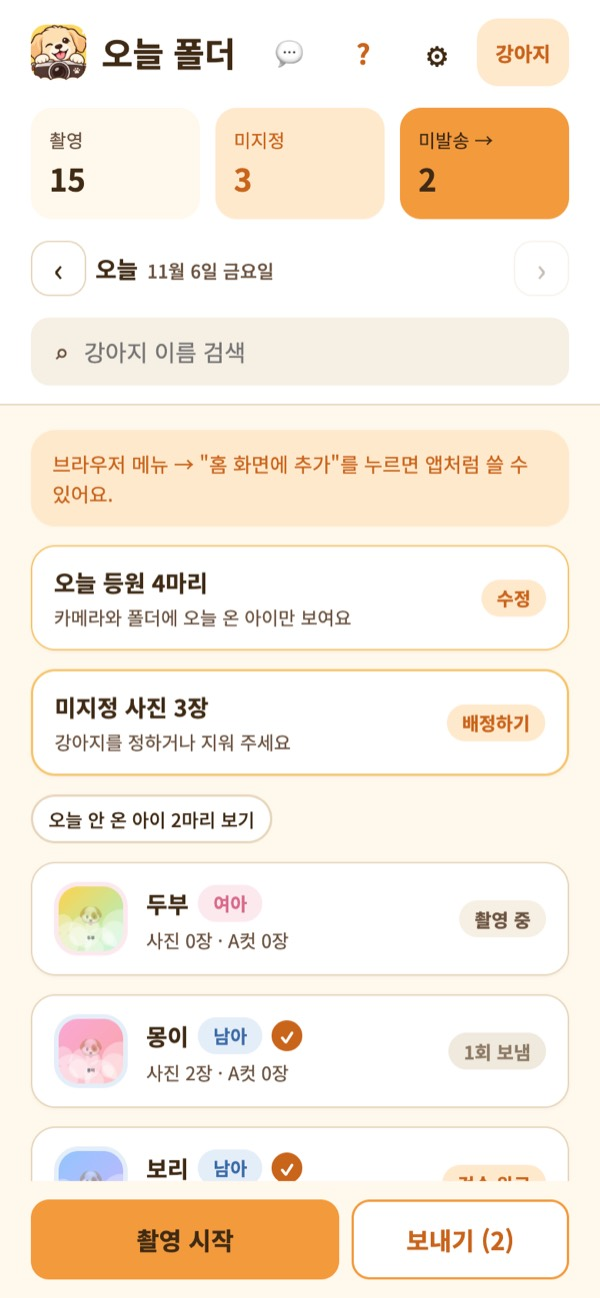
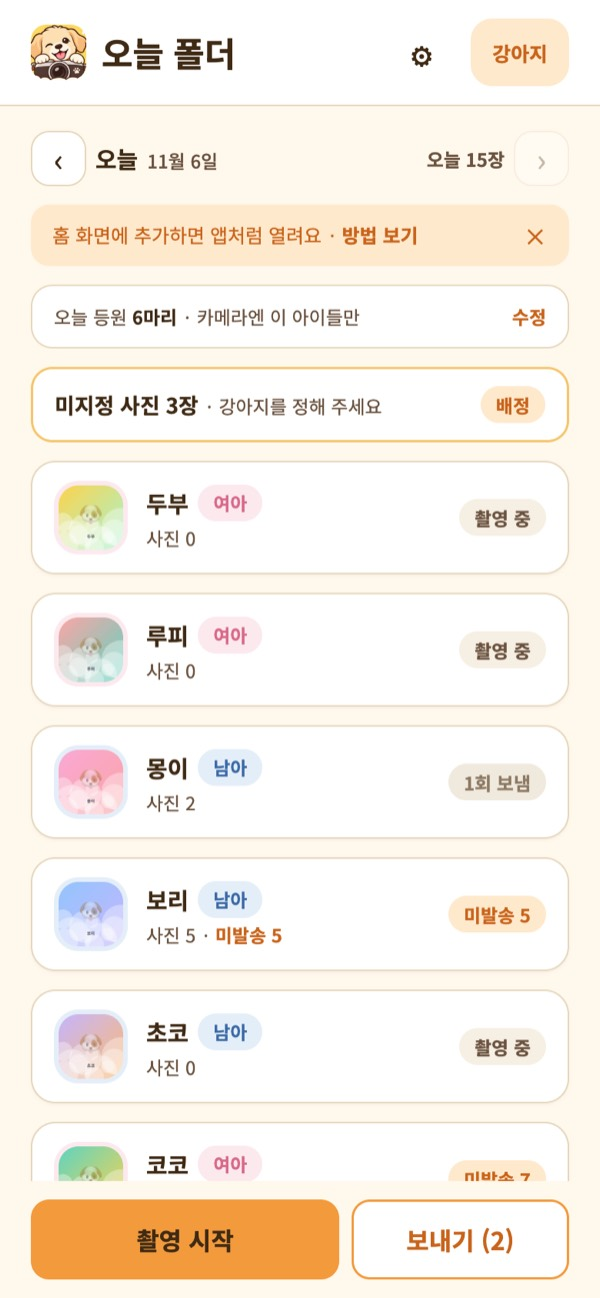
오늘 폴더 개편: 통계 카드·상단 버튼 2개·A컷 제거, 숫자는 제자리로(오늘 N장·미발송), 등원은 체크 전 크게/후 한 줄, 미지정 한 줄, 검색은 9마리부터, 설치 안내 한 줄+닫기, 첫 실행 전용 화면. 사용 안내 문구·그림 갱신

Changed region(s): [[0.03, 0.0, 0.96, 0.9245], [0.75, 0.8937, 0.9, 0.9245], [0.03, 0.5239, 0.06, 0.5855]]

diff --git a/web/src/screens/Folders.tsx b/web/src/screens/Folders.tsx
@@ -11,6 +11,13 @@ import { listAttendedDogIds, listFolders } from '../db/repo';
 import { getPartner, track } from '../lib/analytics';
 import { localDate, relativeLabel } from '../lib/dates';
 
+/** 검색창은 이 마릿수부터. 그 아래선 목록이 한 화면에 들어온다. */
+const SEARCH_FROM = 9;
+
+/**
+ * 오늘 폴더. 이 화면의 일은 "촬영 시작"과 "보내기" 둘뿐이고, 나머지는 그 둘을 돕는 정보다.
+ * 숫자는 제자리에(오늘 N장은 날짜 줄, 미발송은 보내기 버튼과 각 행), 카드는 상황이 있을 때만.
+ */
 export function FoldersScreen() {
   const navigate = useNavigate();
   const [query, setQuery] = useState('');
@@ -22,7 +29,7 @@ export function FoldersScreen() {
     track('date_changed', { screen: 'folders', offset_days: off });
     setDateRaw(d);
   };
-  const { data } = useQuery({ queryKey: ['folders', date], queryFn: () => listFolders(date) });
+  const { data, isLoading } = useQuery({ queryKey: ['folders', date], queryFn: () => listFolders(date) });
   const { data: attended = [] } = useQuery({ queryKey: ['attendance', date], queryFn: () => listAttendedDogIds(date) });
   const attendedSet = useMemo(() => new Set(attended), [attended]);
   const [showAbsent, setShowAbsent] = useState(false);
@@ -35,66 +42,81 @@ export function FoldersScreen() {
   const present = hasAttendance ? filtered.filter((f) => attendedSet.has(f.dog.id) || f.count > 0) : filtered;
   const absent = hasAttendance ? filtered.filter((f) => !attendedSet.has(f.dog.id) && f.count === 0) : [];
   const pickedCount = picked ? perDog.find((f) => f.dog.id === picked.id)?.count : undefined;
+  const unsentDogs = perDog.filter((f) => f.unsent > 0).length;
+
+  const header = (
+    <header className="topbar" style={{ padding: 'calc(var(--safe-top) + 12px) 20px 12px', gap: 10 }}>
+      <img src={`${import.meta.env.BASE_URL}logo-face-128.png`} alt="" width={36} height={36} style={{ borderRadius: 10 }} />
+      <h1 style={{ fontSize: 22 }}>{relativeLabel(date) ?? '지난'} 폴더</h1>
+      <Link to="/settings" className="icon-btn" aria-label="설정" style={{ fontSize: 22 }}>⚙</Link>
+      {perDog.length > 0 ? (
+        <Link to="/dogs" className="icon-btn icon-btn--mint" aria-label="강아지 관리" style={{ fontSize: 13, width: 'auto', padding: '0 14px' }}>강아지</Link>
+      ) : null}
+    </header>
+  );
+
+  // 첫 실행: 강아지가 없으면 할 일 하나만 보여준다.
+  if (!isLoading && perDog.length === 0) {
+    return (
+      <div className="screen screen--surface">
+        {header}
+        <main className="body" style={{ alignItems: 'center', justifyContent: 'center', textAlign: 'center', gap: 18, paddingBottom: 80 }}>
+          <img src={`${import.meta.env.BASE_URL}icon-192.png`} alt="하루멍" width={132} height={132} />
+          <div style={{ display: 'flex', flexDirection: 'column', gap: 8 }}>
+            <b style={{ fontSize: 20 }}>첫 강아지를 등록해 볼까요?</b>
+            <span className="sub" style={{ fontSize: 14, lineHeight: 1.6 }}>이름과 정면 사진만 있으면 돼요.<br />등록한 아이는 촬영할 때 바로 고를 수 있어요.</span>
+          </div>
+          <Link to="/dogs/new" className="btn" style={{ width: 'auto', padding: '0 32px' }}>강아지 등록</Link>
+          <Link to="/guide" className="sub" style={{ fontWeight: 700, color: 'var(--mint)' }} onClick={() => track('guide_opened', { from: 'empty' })}>사용 안내 먼저 보기</Link>
+        </main>
+      </div>
+    );
+  }
 
   return (
     <div className="screen screen--surface">
-      <header className="topbar" style={{ flexDirection: 'column', alignItems: 'stretch', gap: 14, padding: 'calc(var(--safe-top) + 12px) 20px 12px' }}>
-        <div style={{ display: 'flex', alignItems: 'center', justifyContent: 'space-between' }}>
-          <div style={{ display: 'flex', alignItems: 'center', gap: 10 }}>
-            <img src={`${import.meta.env.BASE_URL}logo-face-128.png`} alt="" width={36} height={36} style={{ borderRadius: 10 }} />
-            <h1 style={{ fontSize: 22 }}>{relativeLabel(date) ?? '지난'} 폴더</h1>
-          </div>
-          <div style={{ display: 'flex', gap: 4 }}>
-            <Link to="/feedback?from=folders" className="icon-btn" aria-label="피드백 보내기" style={{ fontSize: 18 }} onClick={() => track('feedback_opened', { from: 'folders' })}>💬</Link>
-            <Link to="/guide" className="icon-btn" aria-label="사용 안내" style={{ fontSize: 18, fontWeight: 700, color: 'var(--mint)' }} onClick={() => track('guide_opened', { from: 'folders' })}>?</Link>
-            <Link to="/settings" className="icon-btn" aria-label="설정" style={{ fontSize: 22 }}>⚙</Link>
-            <Link to="/dogs" className="icon-btn icon-btn--mint" aria-label="강아지 관리" style={{ fontSize: 13, width: 'auto', padding: '0 12px' }}>강아지</Link>
-          </div>
-        </div>
-        <div className="stats">
-          <div className="stat" style={{ background: 'var(--surface)' }}><span className="sub">촬영</span><b>{total}</b></div>
-          <div className="stat" style={{ background: 'var(--mint-light)', color: 'var(--mint)' }}><span style={{ fontSize: 12 }}>미지정</span><b>{unassigned}</b></div>
-          <Link to={`/send?d=${date}`} className="stat" style={{ background: 'var(--brand)', color: 'var(--text)' }}><span style={{ fontSize: 12 }}>미발송 →</span><b>{perDog.filter((f) => f.unsent > 0).length}</b></Link>
-        </div>
-        <DateNav date={date} onChange={setDate} />
-        <SearchBox value={query} onChange={(q) => { if (q.trim().length === 1 && !query.trim()) track('search_used', { screen: 'folders' }); setQuery(q); }} />
-      </header>
+      {header}
 
       <main className="body" style={{ paddingBottom: 100 }}>
-        <InstallHint />
+        {/* 날짜 + 오늘 N장 */}
+        <DateNav date={date} onChange={setDate} compact right={<span className="sub" style={{ fontWeight: 700 }}>{relativeLabel(date) ?? '그날'} {total}장</span>} />
+
+        <InstallHint compact />
+
         {!getPartner() ? (
-          <Link to="/settings#partner" className="card card--row" style={{ color: 'inherit', borderStyle: 'dashed' }}>
-            <span style={{ flex: 1, display: 'flex', flexDirection: 'column', gap: 3 }}>
-              <span className="title">유치원 코드가 없어요</span>
-              <span className="sub">받은 링크로 다시 열거나, 설정에서 코드를 넣어 주세요</span>
-            </span>
-            <Chip label="설정" tone="gray" />
+          <Link to="/settings#partner" className="row-card" style={{ borderStyle: 'dashed' }}>
+            <span style={{ flex: 1 }}><b>유치원 코드가 없어요</b> <span className="sub">· 받은 링크로 열거나 설정에서 입력</span></span>
+            <span className="sub" style={{ fontWeight: 700, color: 'var(--mint)' }}>설정</span>
           </Link>
         ) : null}
-        <Link to={`/attendance?d=${date}`} className="card card--row" style={{ borderColor: 'var(--mint-mid)', color: 'inherit' }}>
-          <span style={{ flex: 1, display: 'flex', flexDirection: 'column', gap: 3 }}>
-            <span className="title">오늘 등원 {hasAttendance ? `${attended.length}마리` : '체크'}</span>
-            <span className="sub">{hasAttendance ? '카메라와 폴더에 오늘 온 아이만 보여요' : '체크하면 카메라에 오늘 온 아이만 떠요'}</span>
-          </span>
-          <Chip label={hasAttendance ? '수정' : '체크하기'} tone="mint" />
-        </Link>
+
+        {/* 등원: 체크 전엔 이 화면의 첫 번째 할 일이라 크게, 체크 뒤엔 한 줄 */}
+        {isToday && !hasAttendance ? (
+          <Link to={`/attendance?d=${date}`} className="card card--row" style={{ borderColor: 'var(--mint-mid)', borderWidth: 1.5, color: 'inherit', padding: '16px' }}>
+            <span style={{ width: 40, height: 40, borderRadius: 12, background: 'var(--mint-light)', color: 'var(--mint)', display: 'flex', alignItems: 'center', justifyContent: 'center', fontWeight: 700, fontSize: 18, flex: '0 0 auto' }}>✓</span>
+            <span style={{ flex: 1, display: 'flex', flexDirection: 'column', gap: 2 }}>
+              <b style={{ fontSize: 16 }}>오늘 등원 체크하기</b>
+              <span className="sub">온 아이만 고르면 카메라가 가벼워져요</span>
+            </span>
+            <span style={{ fontSize: 20, color: 'var(--mint)' }}>›</span>
+          </Link>
+        ) : hasAttendance ? (
+          <Link to={`/attendance?d=${date}`} className="row-card">
+            <span className="sub" style={{ flex: 1 }}>{relativeLabel(date) ?? '그날'} 등원 <b style={{ color: 'var(--text)' }}>{attended.length}마리</b> · 카메라엔 이 아이들만</span>
+            <span className="sub" style={{ fontWeight: 700, color: 'var(--mint)' }}>수정</span>
+          </Link>
+        ) : null}
+
+        {/* 미지정: 있을 때만, 한 줄 */}
         {unassigned > 0 && !query ? (
-          <Link to={`/folders/unassigned?d=${date}`} className="card card--row" style={{ borderColor: 'var(--mint-mid)', borderWidth: 1.5, color: 'inherit' }}>
-            <span style={{ flex: 1, display: 'flex', flexDirection: 'column', gap: 3 }}>
-              <span className="title">미지정 사진 {unassigned}장</span>
-              <span className="sub">강아지를 정하거나 지워 주세요</span>
-            </span>
-            <Chip label="배정하기" tone="orange" />
+          <Link to={`/folders/unassigned?d=${date}`} className="row-card" style={{ borderColor: 'var(--mint-mid)', borderWidth: 1.5 }}>
+            <span style={{ flex: 1, fontSize: 14 }}><b>미지정 사진 {unassigned}장</b> <span className="sub">· 강아지를 정해 주세요</span></span>
+            <Chip label="배정" tone="orange" />
           </Link>
         ) : null}
-        {perDog.length === 0 ? (
-          <Link to="/dogs/new" className="card card--row" style={{ color: 'inherit', borderColor: 'var(--mint-mid)' }}>
-            <span style={{ flex: 1, display: 'flex', flexDirection: 'column', gap: 3 }}>
-              <span className="title">등록된 강아지가 없어요</span>
-              <span className="sub">오른쪽 위 <b>강아지</b> 버튼 → <b>+</b>로 첫 강아지를 등록하세요. 여기를 눌러도 돼요</span>
-            </span>
-            <Chip label="등록" tone="mint" />
-          </Link>
+
+        {perDog.length >= SEARCH_FROM ? (
+          <SearchBox value={query} onChange={(q) => { if (q.trim().length === 1 && !query.trim()) track('search_used', { screen: 'folders' }); setQuery(q); }} />
         ) : null}
         {perDog.length > 0 && filtered.length === 0 ? (
           <div className="card">
@@ -102,36 +124,46 @@ export function FoldersScreen() {
             <div className="sub">이름을 다시 확인해 주세요</div>
           </div>
         ) : null}
-        {absent.length > 0 ? (
-          <button type="button" className="btn btn--small btn--ghost" style={{ alignSelf: 'flex-start' }} onClick={() => { track('absent_toggled', { show: !showAbsent }); setShowAbsent((v) => !v); }}>
-            {showAbsent ? '안 온 아이 접기' : `오늘 안 온 아이 ${absent.length}마리 보기`}
-          </button>
-        ) : null}
+
         {(showAbsent ? [...present, ...absent] : present).map((f) => (
           <button key={f.dog.id} type="button" className="card card--row" style={{ textAlign: 'left', width: '100%', opacity: hasAttendance && !attendedSet.has(f.dog.id) && f.count === 0 ? 0.55 : 1 }} onClick={() => setPicked(f.dog)}>
             <DogAvatar name={f.dog.name} sex={f.dog.sex} thumb={f.dog.thumbBlob} />
-            <span style={{ flex: 1, display: 'flex', flexDirection: 'column', gap: 3 }}>
+            <span style={{ flex: 1, display: 'flex', flexDirection: 'column', gap: 2 }}>
               <span style={{ display: 'flex', alignItems: 'center', gap: 6 }}>
                 <span className="title">{f.dog.name}</span>
                 <SexBadge sex={f.dog.sex} />
-                {f.reviewed || f.sent ? <span className="check check--on check--sm" aria-label="검수 완료">✓</span> : null}
               </span>
-              <span className="sub">사진 {f.count}장 · A컷 {f.aCut}장</span>
+              <span className="sub">
+                사진 {f.count}{f.unsent > 0 ? <> · <b style={{ color: 'var(--mint)' }}>미발송 {f.unsent}</b></> : null}
+              </span>
             </span>
-            <Chip
-              label={f.count === 0 ? '촬영 중' : f.unsent === 0 ? `${f.sendCount}회 보냄` : f.sendCount > 0 ? `미발송 ${f.unsent} · ${f.sendCount}회 보냄` : f.reviewed ? '검수 완료' : '검수 전'}
-              tone={f.count === 0 ? 'gray' : f.unsent === 0 ? 'done' : 'orange'}
-            />
+            {f.count === 0 ? (
+              <Chip label="촬영 중" tone="gray" />
+            ) : f.unsent === 0 ? (
+              <Chip label={`${f.sendCount}회 보냄`} tone="done" />
+            ) : (
+              <Chip label={`미발송 ${f.unsent}`} tone="orange" />
+            )}
           </button>
         ))}
+
+        {absent.length > 0 ? (
+          <button type="button" className="btn btn--small btn--ghost" style={{ alignSelf: 'flex-start' }} onClick={() => { track('absent_toggled', { show: !showAbsent }); setShowAbsent((v) => !v); }}>
+            {showAbsent ? '안 온 아이 접기' : `${relativeLabel(date) ?? '그날'} 안 온 아이 ${absent.length}마리 보기`}
+          </button>
+        ) : null}
       </main>
 
       <footer className="footer footer--surface" style={{ borderTop: 0 }}>
         <div style={{ display: 'flex', gap: 8 }}>
-          {isToday ? <button type="button" className="btn" style={{ flex: 1.6 }} onClick={() => { track('camera_opened', { from: 'folders', attended: attended.length, dogs: perDog.length }); navigate('/camera'); }}>촬영 시작</button> : <button type="button" className="btn btn--outline" style={{ flex: 1.6 }} onClick={() => setDate(localDate())}>오늘로 돌아가기</button>}
-          {perDog.some((f) => f.unsent > 0) ? (
+          {isToday ? (
+            <button type="button" className="btn" style={{ flex: 1.6 }} onClick={() => { track('camera_opened', { from: 'folders', attended: attended.length, dogs: perDog.length }); navigate('/camera'); }}>촬영 시작</button>
+          ) : (
+            <button type="button" className="btn btn--outline" style={{ flex: 1.6 }} onClick={() => setDate(localDate())}>오늘로 돌아가기</button>
+          )}
+          {unsentDogs > 0 ? (
             <button type="button" className="btn btn--outline" style={{ flex: 1 }} onClick={() => { track('send_opened', { from: 'folders_footer' }); navigate(`/send?d=${date}`); }}>
-              보내기 ({perDog.filter((f) => f.unsent > 0).length})
+              보내기 ({unsentDogs})
             </button>
           ) : null}
         </div>

diff --git a/web/src/screens/Guide.tsx b/web/src/screens/Guide.tsx
@@ -59,22 +59,22 @@ export function GuideScreen() {
             ['아이폰', <>사파리 아래 가운데 공유 버튼(네모에 화살표) → 아래로 내려 <b>홈 화면에 추가</b> → 오른쪽 위 <b>추가</b></>],
             ['안드로이드', <>크롬 오른쪽 위 ⋮ 메뉴 → <b>홈 화면에 추가</b> 또는 <b>앱 설치</b></>],
           ]} />
-          <p>설치하면 홈 화면에 노란 바탕의 강아지 아이콘이 생기고, 열면 주소창 없이 앱처럼 떠요. 아이폰은 사파리와 홈 화면 앱의 저장소가 따로라서, <b>설치한 뒤 앱 아이콘으로 열어서</b> 강아지를 등록하세요. 설치 전 사파리에서 넣은 내용은 앱으로 넘어오지 않아요. 앱에서 "유치원 코드가 없어요"가 보이면 설정에서 링크의 코드를 한 번 넣어 주세요.</p>
+          <p>설치 전에는 오늘 폴더 위에 "홈 화면에 추가하면 앱처럼 열려요" 한 줄이 떠요. ✕로 닫으면 다시 안 보이고, 설치 방법은 설정에 남아 있어요. 설치하면 홈 화면에 노란 바탕의 강아지 아이콘이 생기고, 열면 주소창 없이 앱처럼 떠요. 아이폰은 사파리와 홈 화면 앱의 저장소가 따로라서, <b>설치한 뒤 앱 아이콘으로 열어서</b> 강아지를 등록하세요. 설치 전 사파리에서 넣은 내용은 앱으로 넘어오지 않아요. 앱에서 "유치원 코드가 없어요"가 보이면 설정에서 링크의 코드를 한 번 넣어 주세요.</p>
           <p><b>첫 화면은 오늘 폴더입니다.</b> 위에서부터 이렇게 읽으세요.</p>
           <ul>
-            <li>촬영 · 미지정 · 미발송: 오늘 찍은 수, 강아지를 안 정한 사진 수, 안 보낸 사진이 있는 강아지 수</li>
-            <li>날짜 줄: ‹ ›로 어제, 그제 사진을 볼 수 있고 "오늘"로 돌아옵니다</li>
-            <li>강아지 이름 검색</li>
-            <li>오늘 등원 카드와 미지정 사진 카드</li>
-            <li>강아지 목록. 오른쪽 표시가 상태입니다: 촬영 중 → 검수 전(또는 검수 완료) → 미발송 N · N회 보냄 → N회 보냄</li>
-            <li>맨 아래 촬영 시작, 보낼 게 있으면 보내기 버튼</li>
+            <li>날짜 줄: ‹ ›로 어제, 그제 사진을 볼 수 있고 "오늘"로 돌아옵니다. 오른쪽에 그날 찍은 수 "오늘 15장"</li>
+            <li>등원 줄: 아침에 체크 전이면 "오늘 등원 체크하기" 카드가 크게, 체크한 뒤엔 "등원 4마리 · 수정" 한 줄</li>
+            <li>미지정 줄: 강아지를 안 정한 사진이 있을 때만 보여요</li>
+            <li>강아지 목록. 이름, 성별, "사진 5 · 미발송 5", 오른쪽 상태 칩: 촬영 중 → 미발송 N → N회 보냄</li>
+            <li>맨 아래 촬영 시작, 안 보낸 사진이 있으면 보내기 (N) 버튼</li>
           </ul>
-          <p>오른쪽 위 💬는 피드백 보내기, ?는 이 안내, ⚙은 설정, 그 옆 강아지 버튼은 강아지 등록·수정입니다.</p>
+          <p>오른쪽 위 ⚙은 설정이고, 이 안내와 피드백 보내기도 설정 안에 있어요. 그 옆 강아지 버튼은 강아지 등록·수정입니다. 강아지가 9마리를 넘으면 목록 위에 이름 검색이 생겨요.</p>
           <Shot src="01-folders" alt="오늘 폴더 화면" />
         </Section>
 
         <Section id="dogs" title="2. 강아지 등록">
-          <p>처음 한 번만 하면 됩니다. 오늘 폴더 오른쪽 위 <b>강아지</b> 버튼 → 강아지 관리 화면 오른쪽 위 <b>+</b>. 아직 한 마리도 없을 땐 오늘 폴더의 "등록된 강아지가 없어요" 카드를 눌러도 등록 화면으로 갑니다. 강아지 관리 화면에는 이름 검색이 있어서 마릿수가 많아도 바로 찾을 수 있어요.</p>
+          <p>처음 한 번만 하면 됩니다. 아직 한 마리도 없으면 오늘 폴더에 "첫 강아지를 등록해 볼까요?"와 <b>강아지 등록</b> 버튼만 보여요. 그 뒤로는 오늘 폴더 오른쪽 위 <b>강아지</b> 버튼 → 강아지 관리 화면 오른쪽 위 <b>+</b>. 강아지 관리 화면에는 이름 검색이 있어서 마릿수가 많아도 바로 찾을 수 있어요.</p>
+          <Shot src="03-first-run" alt="첫 실행 화면. 강아지 등록 버튼 하나" />
           <Table head={['항목', '입력', '비고']} rows={[
             ['강아지 이름', '필수', '목록과 사진 파일 이름에 쓰여요'],
             ['정면 사진', '선택', '강아지 목록과 카메라에서 얼굴로 고를 수 있게 해 줍니다. 없으면 이름 첫 글자가 떠요'],
@@ -90,10 +90,11 @@ export function GuideScreen() {
         <Section id="attendance" title="3. 등원 체크">
           <p>아침에 오늘 온 아이만 체크하면 카메라와 폴더에 그 아이들만 보입니다. 25마리 중 8마리만 왔으면 카메라에서 8마리만 고르면 돼요.</p>
           <ol>
-            <li>오늘 폴더에서 <b>오늘 등원 체크</b> 카드를 누릅니다.</li>
+            <li>오늘 폴더에서 <b>오늘 등원 체크하기</b> 카드를 누릅니다. 이미 체크했으면 "등원 N마리" 줄의 <b>수정</b>.</li>
             <li>온 아이를 탭합니다. 탭하는 즉시 저장되고 주황 체크가 붙어요. 위 검색창으로 찾아도 됩니다.</li>
             <li>아래 촬영 시작 (N마리) 버튼으로 바로 카메라로 가거나 <b>완료</b>로 돌아갑니다.</li>
           </ol>
+          <Shot src="01b-folders-morning" alt="아침의 오늘 폴더. 등원 체크하기 카드가 크게" />
           <Shot src="02-attendance" alt="등원 체크 화면" />
           <p>전체 선택·전체 해제 버튼이 있고, 뒤늦게 온 아이는 언제든 다시 들어가 추가하면 됩니다. 체크를 안 하면 전체 강아지가 보이므로 건너뛰어도 동작에는 문제가 없어요.</p>
           <p>참고: 오늘 폴더에서 안 온 아이는 <b>오늘 안 온 아이 N마리 보기</b>로 접혀 있고, 카메라에서는 강아지 줄 끝 <b>+ 전체</b>로 잠깐 펼칠 수 있습니다.</p>
@@ -148,14 +149,14 @@ export function GuideScreen() {
           <p>저장은 <b>덮어쓰기</b> 또는 <b>복사본으로 저장</b>. 영상 자르기는 영상 길이만큼 걸려요(10초 영상 = 10초). 그동안 화면을 끄지 마세요.</p>
           <Shot src="13-photo-editor" alt="사진 편집 화면" />
           <p><b>옮기기·삭제.</b> 오른쪽 위 <b>선택</b>을 누르면 체크 모드가 돼요. 사진을 고르고 아래 <b>옮기기·추가</b>로 다른 아이를 더하거나(여러 마리 체크 가능) 이 폴더에서 빼고, <b>삭제</b>로 지워요. 바로 반영됩니다.</p>
-          <p><b>미지정 사진.</b> 오늘 폴더의 주황 테두리 "미지정 사진" 카드를 누르면 강아지를 안 정한 사진이 모여 있어요. 골라서 <b>강아지 배정</b> → 여러 마리 체크 → <b>N마리에게 배정</b>. 안 쓸 사진은 삭제.</p>
+          <p><b>미지정 사진.</b> 오늘 폴더의 "미지정 사진 N장" 줄을 누르면 강아지를 안 정한 사진이 모여 있어요. 골라서 <b>강아지 배정</b> → 여러 마리 체크 → <b>N마리에게 배정</b>. 안 쓸 사진은 삭제.</p>
           <p><b>보낸 표시.</b> 보호자에게 보낸 사진에는 "1회 보냄"처럼 몇 번째 발송에 나갔는지 표시가 붙고, 폴더 위에 그날 발송 이력이 한 줄로 떠요.</p>
           <p><b>검수 완료.</b> 폴더 맨 아래 <b>검수 완료</b>를 누르면 오늘 폴더로 돌아가고, 그 아이 이름 옆에 주황 체크가 붙어요. 그날 사진을 다 봤다는 표시이고, 보내기의 조건은 아니에요. 그 뒤에 사진이 더 들어오면 체크가 자동으로 풀려요. 다시 손보려면 <b>검수 다시 열기</b>.</p>
           <p><b>지난 날짜.</b> 폴더 위 날짜 줄의 ‹ ›로 어제, 그제 사진도 같은 방식으로 볼 수 있어요. 보내기 화면도 날짜를 옮길 수 있어서 어제 못 보낸 사진을 오늘 보낼 수 있습니다.</p>
         </Section>
 
         <Section id="send" title="7. 보호자에게 보내기">
-          <p>보내고 싶을 때 언제든 보내세요. 폰의 공유 창으로 사진·영상 파일을 카톡에 바로 붙여 보냅니다. 하루멍이 직접 보내는 게 아니라, 보낼 사진을 묶어서 카톡에 넘겨 주는 겁니다. 오늘 폴더 위 <b>미발송 →</b> 또는 아래 <b>보내기 (N)</b>.</p>
+          <p>보내고 싶을 때 언제든 보내세요. 폰의 공유 창으로 사진·영상 파일을 카톡에 바로 붙여 보냅니다. 하루멍이 직접 보내는 게 아니라, 보낼 사진을 묶어서 카톡에 넘겨 주는 겁니다. 오늘 폴더 아래 <b>보내기 (N)</b>. 안 보낸 사진이 있을 때만 보여요.</p>
           <p><b>안 보낸 사진만 묶여요.</b> 오전에 한 번 보내고 오후에 또 찍었으면, 오후 사진만 다음 발송에 들어갑니다. 이미 보낸 것까지 다시 보내려면 카드의 <b>이미 보낸 사진도 포함해서 보내기</b>를 켜세요.</p>
           <p><b>상단 압축 설정(전체 적용).</b></p>
           <Table head={['설정', '기본', '효과']} rows={[
@@ -211,7 +212,7 @@ export function GuideScreen() {
         </Section>
 
         <Section id="feedback" title="10. 피드백 보내기">
-          <p>앱 안에서 바로 보낼 수 있어요. 오늘 폴더 오른쪽 위 <b>💬</b> 또는 설정의 <b>피드백 보내기</b>.</p>
+          <p>앱 안에서 바로 보낼 수 있어요. 오늘 폴더 오른쪽 위 ⚙ → 설정의 <b>피드백 보내기</b>.</p>
           <Table head={['항목', '입력', '비고']} rows={[
             ['어떤 내용인가요', '필수', '오류·안 됨 / 불편한 점 / 있었으면 하는 기능 / 좋았던 점 / 기타 중 하나'],
             ['제목', '선택', '한 줄 요약. 예: 영상 보내기가 중간에 멈춰요'],

diff --git a/web/src/components/ui.tsx b/web/src/components/ui.tsx
@@ -1,4 +1,5 @@
 import { useEffect, useState, type ReactNode } from 'react';
+import { Link } from 'react-router-dom';
 
 import type { Sex } from '../db/db';
 
@@ -65,12 +66,25 @@ export function TopBar({ title, onBack, right }: { title: string; onBack?: () =>
 }
 
 /** 홈 화면 추가 안내. 설치된 상태(standalone)면 숨긴다. */
-export function InstallHint() {
+const INSTALL_SEEN_KEY = 'harumung.installHintSeen';
+
+/** 홈 화면 설치 안내. compact면 한 줄 + 닫기(한 번 닫으면 다시 안 뜸, 설정에 안내가 남아 있다). */
+export function InstallHint({ compact = false }: { compact?: boolean }) {
   const standalone =
     window.matchMedia('(display-mode: standalone)').matches ||
     (navigator as Navigator & { standalone?: boolean }).standalone === true;
-  if (standalone) return null;
+  const [seen, setSeen] = useState<boolean>(() => { try { return localStorage.getItem(INSTALL_SEEN_KEY) === '1'; } catch { return false; } });
+  if (standalone || (compact && seen)) return null;
   const ios = /iPhone|iPad/.test(navigator.userAgent);
+  if (compact) {
+    const dismiss = () => { try { localStorage.setItem(INSTALL_SEEN_KEY, '1'); } catch { /* 무시 */ } setSeen(true); };
+    return (
+      <div className="install install--compact">
+        <span style={{ flex: 1 }}>홈 화면에 추가하면 앱처럼 열려요 · <Link to="/settings" style={{ fontWeight: 700, color: 'inherit' }}>방법 보기</Link></span>
+        <button type="button" className="icon-btn" aria-label="닫기" style={{ width: 28, height: 28, fontSize: 14, color: 'inherit' }} onClick={dismiss}>✕</button>
+      </div>
+    );
+  }
   return (
     <div className="install">
       {ios

diff --git a/web/src/components/DateNav.tsx b/web/src/components/DateNav.tsx
@@ -1,3 +1,4 @@
+import type { ReactNode } from 'react';
 import { useSearchParams } from 'react-router-dom';
 
 import { dateLabelKo, isValidDate, localDate, relativeLabel, shiftDate } from '../lib/dates';
@@ -16,7 +17,7 @@ export function useDateParam(): [string, (d: string) => void] {
 }
 
 /** ‹ 11월 6일 금요일 › 와 "오늘" 복귀. 미래로는 못 간다. */
-export function DateNav({ date, onChange, compact = false }: { date: string; onChange: (d: string) => void; compact?: boolean }) {
+export function DateNav({ date, onChange, compact = false, right }: { date: string; onChange: (d: string) => void; compact?: boolean; right?: ReactNode }) {
   const today = localDate();
   const rel = relativeLabel(date);
   return (
@@ -26,6 +27,7 @@ export function DateNav({ date, onChange, compact = false }: { date: string; onC
         {rel ? <b>{rel}</b> : null}
         <span className={rel ? 'sub' : ''} style={{ fontWeight: rel ? 500 : 700 }}>{dateLabelKo(date, !compact)}</span>
       </span>
+      {right}
       <button type="button" className="datenav__arrow" aria-label="다음 날" disabled={date >= today} onClick={() => onChange(shiftDate(date, 1))}>›</button>
       {date !== today ? <button type="button" className="btn btn--small btn--outline" onClick={() => onChange(today)}>오늘</button> : null}
     </div>

diff --git a/web/src/styles.css b/web/src/styles.css
@@ -398,8 +398,15 @@ a.stat { color: inherit; }
 .guide__shot img { width: min(100%, 280px); border-radius: 14px; border: 1px solid var(--line); box-shadow: 0 2px 10px rgba(17, 24, 39, 0.08); }
 .guide__shot figcaption { font-size: 12px; color: var(--text-2); }
 
+/* 한 줄 카드 (등원 요약·미지정·코드 안내) */
+.row-card {
+  display: flex; align-items: center; gap: 10px; padding: 11px 14px; border-radius: 14px;
+  background: var(--white); border: 1px solid var(--line); color: inherit; font-size: 13px;
+}
+
 /* 설치 안내 */
 .install { background: var(--mint-light); color: var(--mint); border-radius: var(--r-card); padding: 12px 14px; font-size: 13px; line-height: 1.5; }
+.install--compact { display: flex; align-items: center; gap: 8px; padding: 6px 8px 6px 14px; border-radius: 12px; font-size: 12.5px; }
 
 /* 피드백 */
 .fb-add { width: 84px; height: 84px; border-radius: 10px; border: 2px dashed var(--mint-mid); background: var(--surface); color: var(--mint); font-weight: 700; font-size: 22px; line-height: 1.1; }
